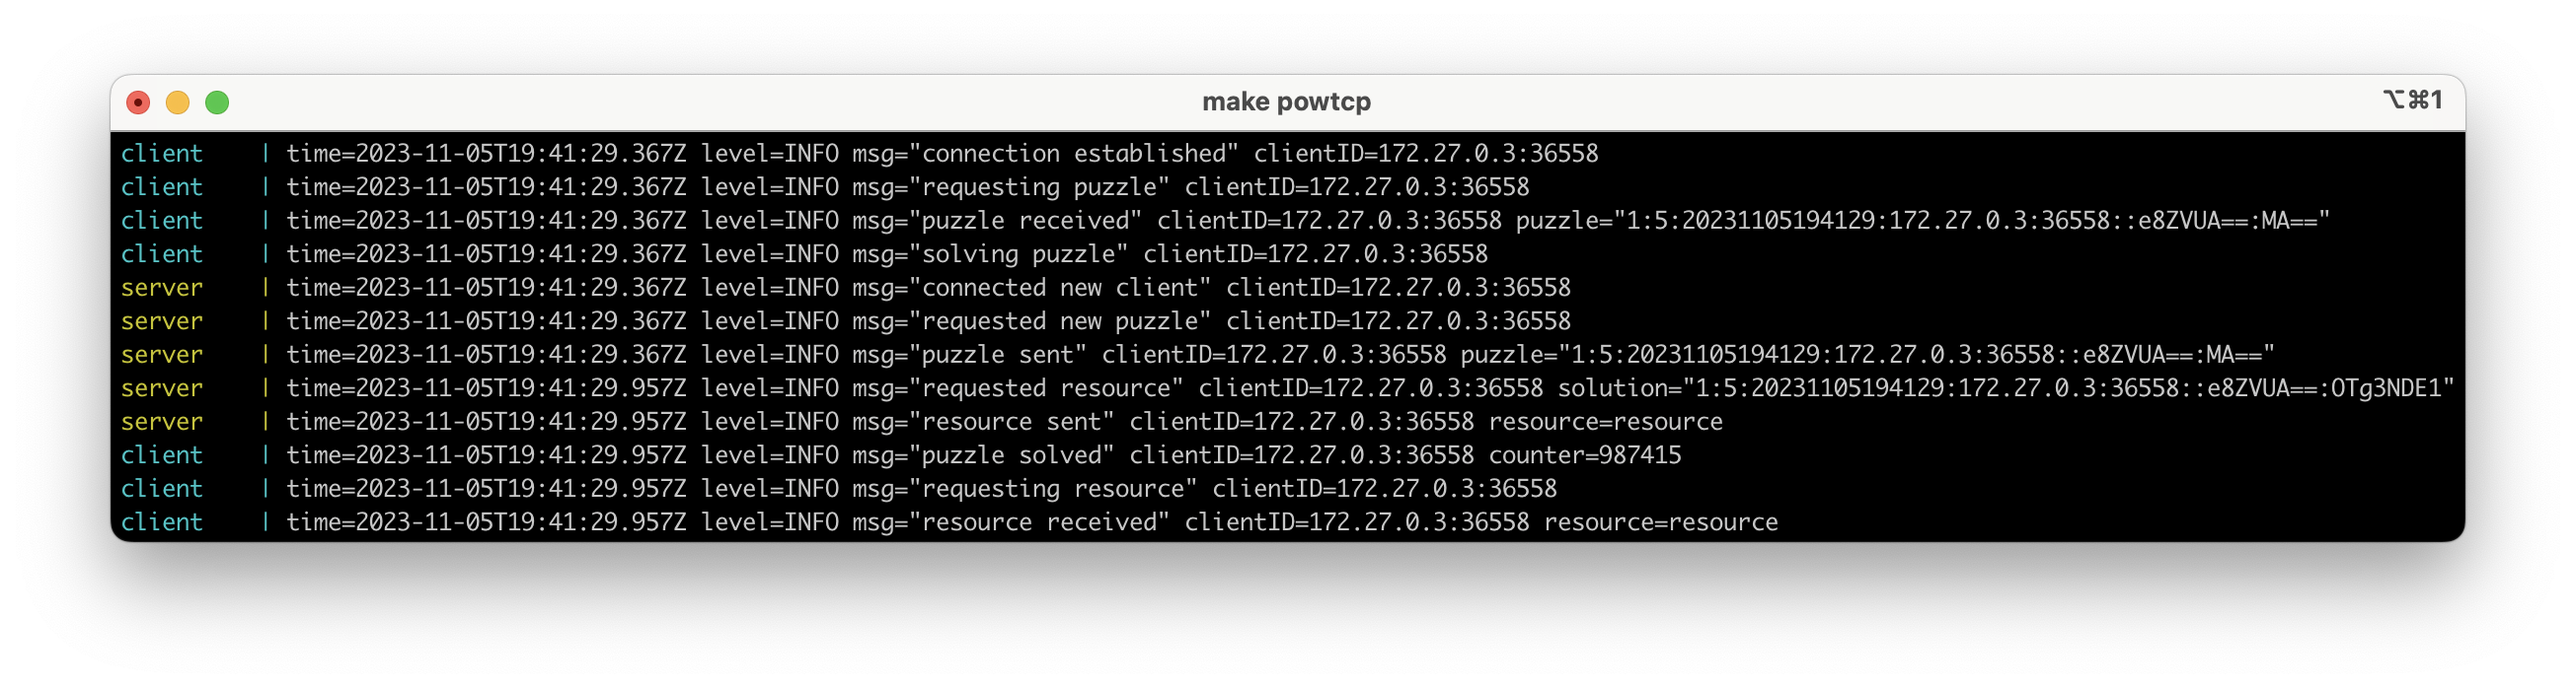
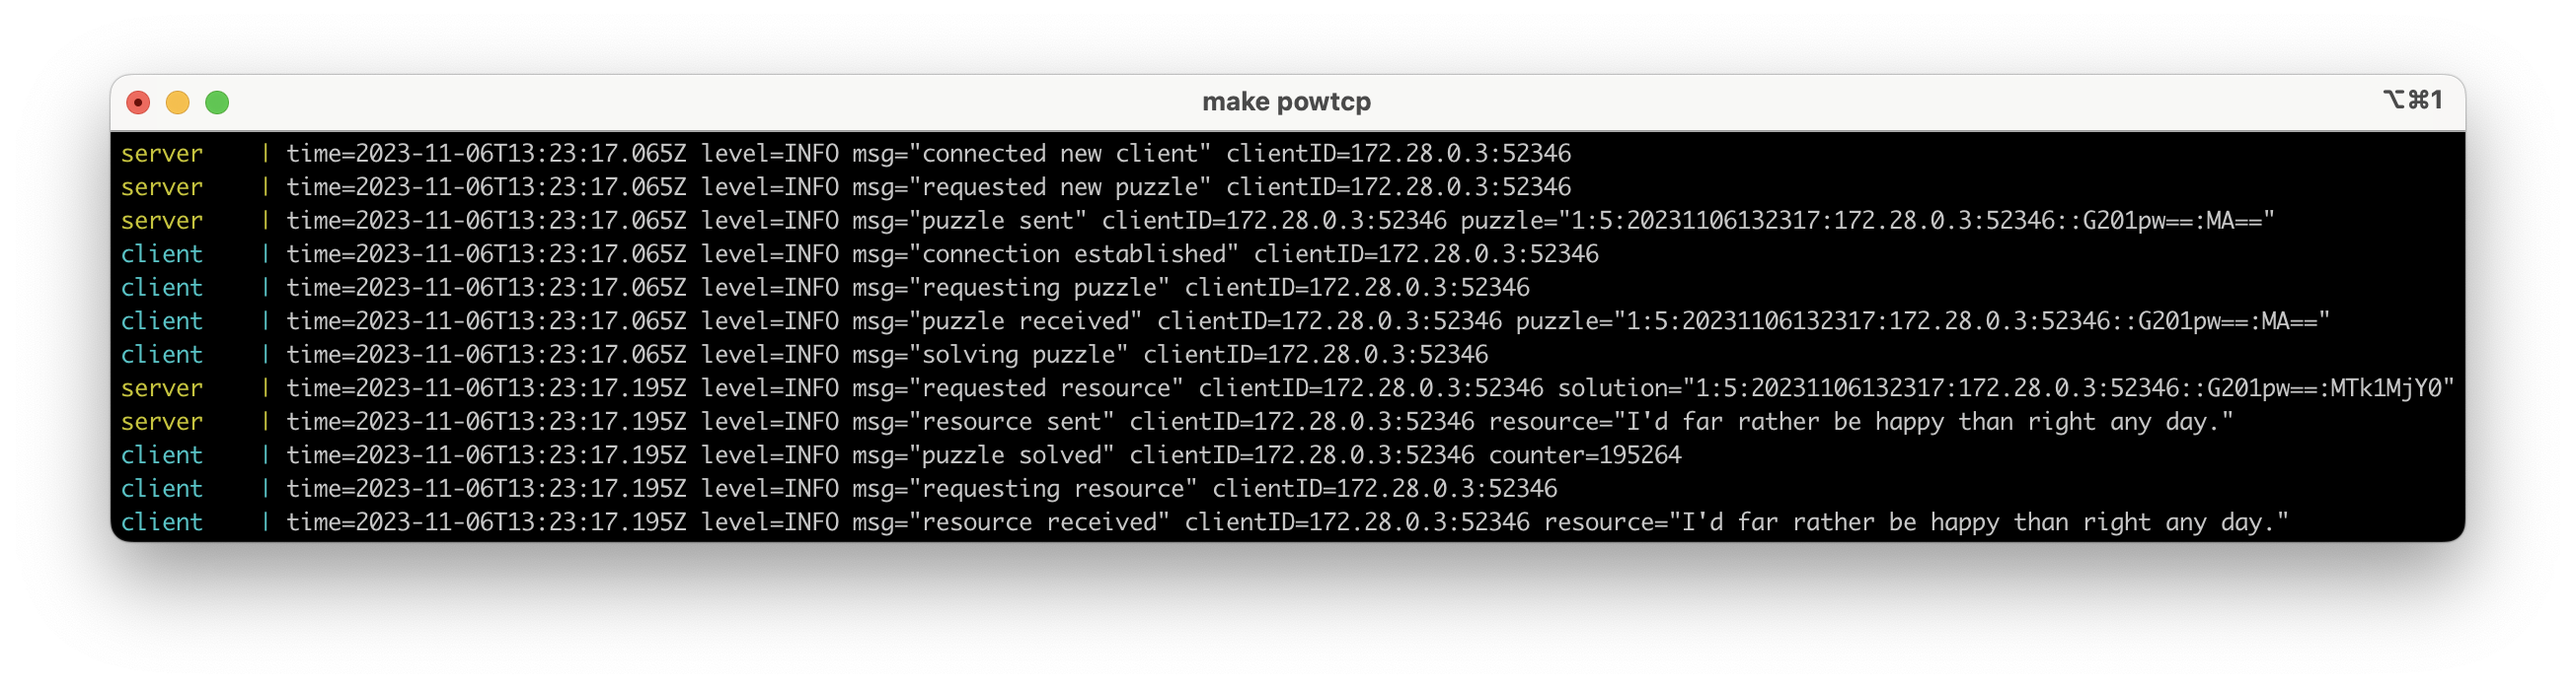
Add resource cache

diff --git a/cmd/server/resource.go b/cmd/server/resource.go
@@ -1,0 +1,46 @@
+package main
+
+var resources = []string{
+	`For instance, on the planet Earth, man had always assumed that he was more intelligent than dolphins because he had achieved so much—the wheel, New York, wars and so on—whilst all the dolphins had ever done was muck about in the water having a good time. But conversely, the dolphins had always believed that they were far more intelligent than man—for precisely the same reasons.`,
+	`He felt that his whole life was some kind of dream and he sometimes wondered whose it was and whether they were enjoying it.`,
+	`This planet has—or rather had—a problem, which was this: most of the people living on it were unhappy for pretty much of the time. Many solutions were suggested for this problem, but most of these were largely concerned with the movement of small green pieces of paper, which was odd because on the whole it wasn't the small green pieces of paper that were unhappy.`,
+	`One of the things Ford Prefect had always found hardest to understand about humans was their habit of continually stating and repeating the very very obvious.`,
+	`He's spending a year dead for tax reasons.`,
+	`‘Did I do anything wrong today,’ he said, ‘or has the world always been like this and I've been too wrapped up in myself to notice?’`,
+	`I think you ought to know I'm feeling very depressed.`,
+	`My capacity for happiness...you could fit into a matchbox without taking out the matches first.`,
+	`Here, for whatever reason, is the world. And here it stays. With me on it.`,
+	`Reality is frequently inaccurate.`,
+	`Don't Panic.`,
+	`Time is an illusion. Lunchtime doubly so.`,
+	`Isn't it enough to see that a garden is beautiful without having to believe that there are fairies at the bottom of it too?`,
+	`I'd far rather be happy than right any day.`,
+	`If there's anything more important than my ego around, I want it caught and shot now.`,
+	`‘You know,’ said Arthur, ‘it's at times like this, when I'm trapped in a Vogon airlock with a man from Betelgeuse, and about to die of asphyxiation in deep space that I really wish I'd listened to what my mother told me when I was young.’ ‘Why, what did she tell you?’ ‘I don't know, I didn't listen.’`,
+	`The answer to the great question...of Life, the Universe and Everything...is...forty-two.`,
+	`The argument goes something like this: ‘I refuse to prove that I exist,’ says God, ‘for proof denies faith, and without faith I am nothing.’`,
+	`Anyone who is capable of getting themselves made President should on no account be allowed to do the job.`,
+	`All through my life I've had this strange unaccountable feeling that something was going on in the world, something big, even sinister, and no one would tell me what it was.`,
+	`Space is big. Really big. You just won't believe how vastly, hugely, mind-bogglingly big it is. I mean, you may think it's a long way down the road to the chemist's, but that's just peanuts to space.`,
+	`Perhaps I'm old and tired, but I always think that the chances of finding out what really is going on are so absurdly remote that the only thing to do is to say hang the sense of it and just keep yourself occupied.`,
+	`So once you do know what the question actually is, you'll know what the answer means.`,
+	`Well, I mean, yes idealism, yes the dignity of pure research, yes the pursuit of truth in all its forms, but there comes a point I'm afraid where you begin to suspect that the entire multidimensional infinity of the Universe is almost certainly being run by a bunch of maniacs.`,
+	`I don’t know what I’m looking for... I think it might be because if I knew I wouldn’t be able to look for them.`,
+	`Looking up into the night sky is looking into infinity—distance is incomprehensible and therefore meaningless.`,
+	`For a moment, nothing happened. Then, after a second or so, nothing continued to happen.`,
+	`The ships hung in the sky in much the same way that bricks don't.`,
+	`Ford... you're turning into a penguin. Stop it.`,
+	`The last ever dolphin message was misinterpreted as a surprisingly sophisticated attempt to do a double-backwards-somersault through a hoop whilst whistling the 'Star Spangled Banner,' but in fact the message was this: ‘So long and thanks for all the fish.’`,
+	`We demand rigidly defined areas of doubt and uncertainty!`,
+	`What's so unpleasant about being drunk? You ask a glass of water!`,
+	`In those days spirits were brave, the stakes were high, men were real men, women were real women and small furry creatures from Alpha Centauri were real small furry creatures from Alpha Centauri.`,
+	`The Hitchhiker's Guide to the Galaxy also mentions alcohol. It says that the best drink in existence is the Pan Galactic Gargle Blaster. The effect of which is like having your brains smashed out with a slice of lemon wrapped round a large gold brick.`,
+	`And all dared to brave unknown terrors, to do mighty deeds, to boldly split infinitives that no man had split before—and thus was the Empire forged.`,
+	`Very deep... You should send that in to the Reader's Digest. They've got a page for people like you.`,
+	`Why should I want to make anything up? Life’s bad enough as it is without wanting to invent any more of it.`,
+	`There is an art, it says, or rather, a knack to flying. The knack lies in learning how to throw yourself at the ground and miss.`,
+	`It is a mistake to think you can solve any major problems just with potatoes.`,
+	`He was staring at the instruments with the air of one who is trying to convert Fahrenheit to centigrade in his head while his house is burning down.`,
+	`There is a moment in every dawn when light floats, there is the possibility of magic. Creation holds its breath.`,
+	`In the beginning the Universe was created. This has made a lot of people very angry and been widely regarded as a bad move.`,
+}

diff --git a/internal/pkg/service/service_server.go b/internal/pkg/service/service_server.go
@@ -2,7 +2,9 @@ package service
 
 import (
 	"bufio"
+	"crypto/rand"
 	"io"
+	"math/big"
 	"time"
 
 	"github.com/pvarentsov/powtcp/internal/pkg/lib/hashcash"
@@ -11,28 +13,31 @@ import (
 
 // Opts - options to create new cache instance
 type ServerOpts struct {
-	Logger       Logger
-	Config       ServerConfig
-	PuzzleCache  PuzzleCache
-	ErrorChecker ErrorChecker
+	Logger        Logger
+	Config        ServerConfig
+	PuzzleCache   PuzzleCache
+	ResourceCache ResourceCache
+	ErrorChecker  ErrorChecker
 }
 
 // NewServer - create new server-side service
 func NewServer(opts ServerOpts) *Server {
 	return &Server{
-		logger:       opts.Logger,
-		config:       opts.Config,
-		puzzleCache:  opts.PuzzleCache,
-		errorChecker: opts.ErrorChecker,
+		logger:        opts.Logger,
+		config:        opts.Config,
+		puzzleCache:   opts.PuzzleCache,
+		resourceCache: opts.ResourceCache,
+		errorChecker:  opts.ErrorChecker,
 	}
 }
 
 // Server - server-side service
 type Server struct {
-	logger       Logger
-	config       ServerConfig
-	puzzleCache  PuzzleCache
-	errorChecker ErrorChecker
+	logger        Logger
+	config        ServerConfig
+	puzzleCache   PuzzleCache
+	resourceCache ResourceCache
+	errorChecker  ErrorChecker
 }
 
 // HandleMessages - handle client messages
@@ -140,14 +145,38 @@ func (s *Server) responseResource(clientID string, payload string, w io.Writer) 
 		return
 	}
 
+	resource, err := s.randomResource()
+	if err != nil {
+		s.logger.Error(err.Error(), "op", op, "clientID", clientID)
+		s.writeError(clientID, ErrInternalError, w)
+		return
+	}
+
 	msg := message.Message{
 		Command: message.CommandResponseResource,
-		Payload: "resource",
+		Payload: resource,
 	}
 
 	s.writeMsg(clientID, msg, w)
 	s.puzzleCache.Delete(hashcash.Key())
 	s.logger.Info("resource sent", "clientID", clientID, "resource", msg.Payload)
+}
+
+func (s *Server) randomResource() (string, error) {
+	keys := s.resourceCache.Keys()
+	if len(keys) == 0 {
+		return "", nil
+	}
+
+	randKeyIndex, err := rand.Int(rand.Reader, big.NewInt(int64(len(keys))))
+	if err != nil {
+		return "", err
+	}
+
+	key := int(randKeyIndex.Int64())
+	resource, _ := s.resourceCache.Get(key)
+
+	return resource, nil
 }
 
 func (s *Server) writeMsg(clientID string, msg message.Message, w io.Writer) {

diff --git a/internal/pkg/lib/config/config.go b/internal/pkg/lib/config/config.go
@@ -19,7 +19,7 @@ type Server struct {
 	LogJson           bool   `yaml:"log_json" env:"LOG_JSON" env-default:"false"`
 	Address           string `yaml:"address" env:"ADDRESS" env-default:":8080"`
 	ShutdownTimeout   int    `yaml:"shutdown_timeout" env:"SHUTDOWN_TIMEOUT" env-default:"1000"`
-	ConnectionTimeout int    `yaml:"connection_timeout" env:"CONNECTION_TIMEOUT" env-default:"2000"`
+	ConnectionTimeout int    `yaml:"connection_timeout" env:"CONNECTION_TIMEOUT" env-default:"30000"`
 }
 
 // Client - client config structure
@@ -32,8 +32,8 @@ type Client struct {
 // Hashcash - Hashcash config structure
 type Hashcash struct {
 	Bits               int `yaml:"bits" env:"BITS" env-default:"5"`
-	ComputeMaxAttempts int `yaml:"compute_max_attempts"  env:"COMPUTE_MAX_ATTEMPTS" env-default:"1000000"`
-	TTL                int `yaml:"ttl"  env:"TTL" env-default:"2000"`
+	ComputeMaxAttempts int `yaml:"compute_max_attempts"  env:"COMPUTE_MAX_ATTEMPTS" env-default:"100000000"`
+	TTL                int `yaml:"ttl"  env:"TTL" env-default:"60000"`
 }
 
 // Parse - parse config from file by flag or from env or use default

diff --git a/internal/pkg/lib/cache/cache.go b/internal/pkg/lib/cache/cache.go
@@ -6,10 +6,8 @@ import (
 	"time"
 )
 
-var defaultCleanInterval = 3000 * time.Millisecond
-
 // Opts - options to create new cache instance
-// CleanInterval - uses default if target <= 0
+// CleanInterval - uses if value > 0
 type Opts struct {
 	CleanInterval time.Duration
 	Logger        Logger
@@ -21,11 +19,9 @@ func New[K comparable, V any](ctx context.Context, opts Opts) *Cache[K, V] {
 		cache:  make(map[K]value[V]),
 		logger: opts.Logger,
 	}
-	if opts.CleanInterval < 0 {
-		opts.CleanInterval = defaultCleanInterval
+	if opts.CleanInterval > 0 {
+		go c.runCleaner(ctx, opts.CleanInterval)
 	}
-
-	go c.runCleaner(ctx, opts.CleanInterval)
 
 	return c
 }

diff --git a/cmd/server/main.go b/cmd/server/main.go
@@ -37,11 +37,19 @@ func main() {
 		Logger:        logger,
 	})
 
+	resourceCache := cache.New[int, string](ctx, cache.Opts{
+		Logger: logger,
+	})
+	for i, r := range resources {
+		resourceCache.Add(i, r)
+	}
+
 	service := service.NewServer(service.ServerOpts{
-		Config:       configService,
-		Logger:       logger,
-		PuzzleCache:  puzzleCache,
-		ErrorChecker: tcp.NewConnErrorChecker(),
+		Config:        configService,
+		Logger:        logger,
+		PuzzleCache:   puzzleCache,
+		ResourceCache: resourceCache,
+		ErrorChecker:  tcp.NewConnErrorChecker(),
 	})
 
 	server, err := server.Listen(ctx, server.Opts{

diff --git a/internal/pkg/service/interface.go b/internal/pkg/service/interface.go
@@ -9,6 +9,12 @@ type PuzzleCache interface {
 	Delete(k string)
 }
 
+// ResourceCache - resource cache interface
+type ResourceCache interface {
+	Get(k int) (v string, ok bool)
+	Keys() []int
+}
+
 // Logger - logger interface
 type Logger interface {
 	Info(msg string, args ...any)

diff --git a/internal/pkg/lib/cache/cache_test.go b/internal/pkg/lib/cache/cache_test.go
@@ -14,7 +14,7 @@ func Test_Cache(t *testing.T) {
 		logger := &mockLogger{}
 
 		c := New[string, string](ctx, Opts{
-			CleanInterval: 1000,
+			CleanInterval: 1000 * time.Millisecond,
 			Logger:        logger,
 		})
 
